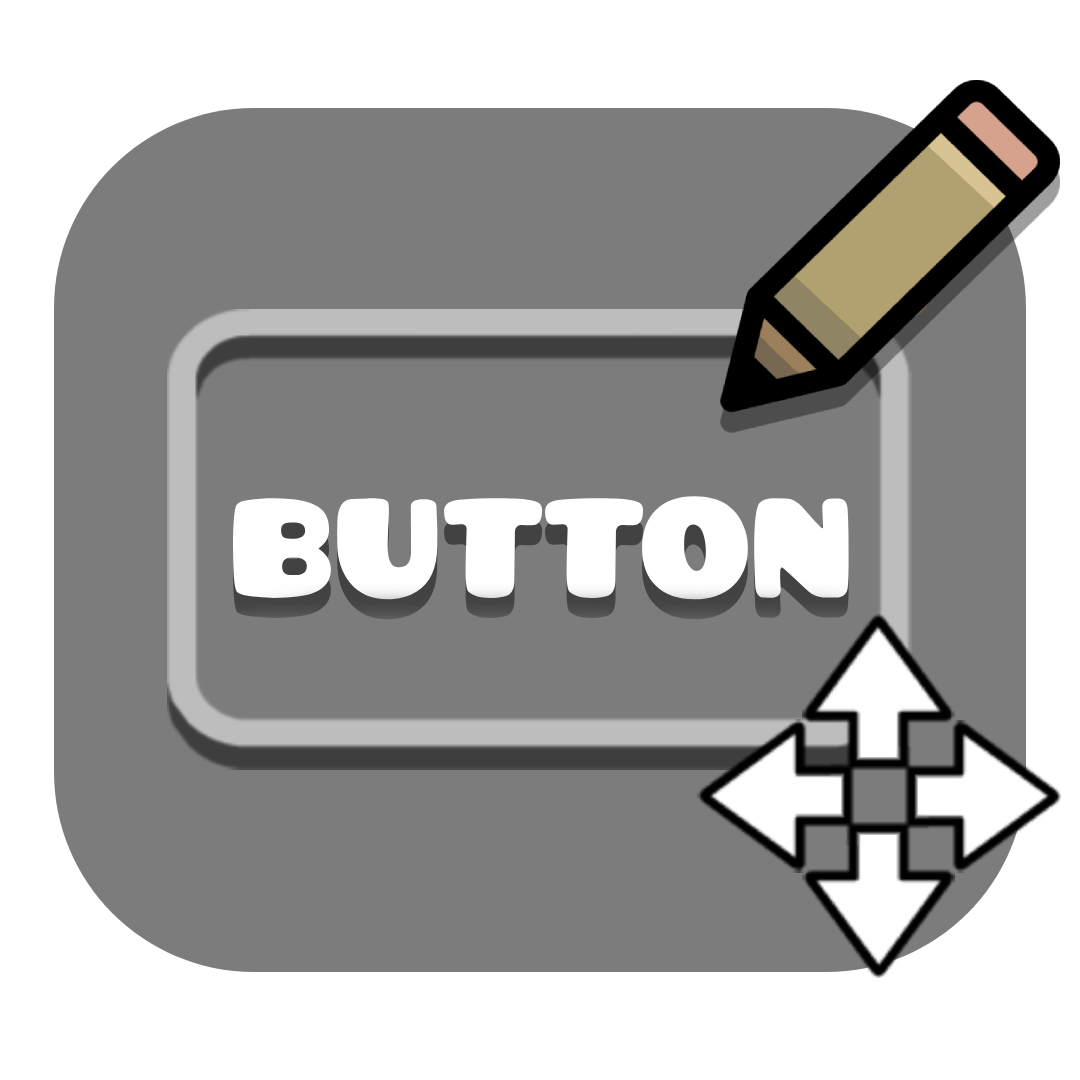
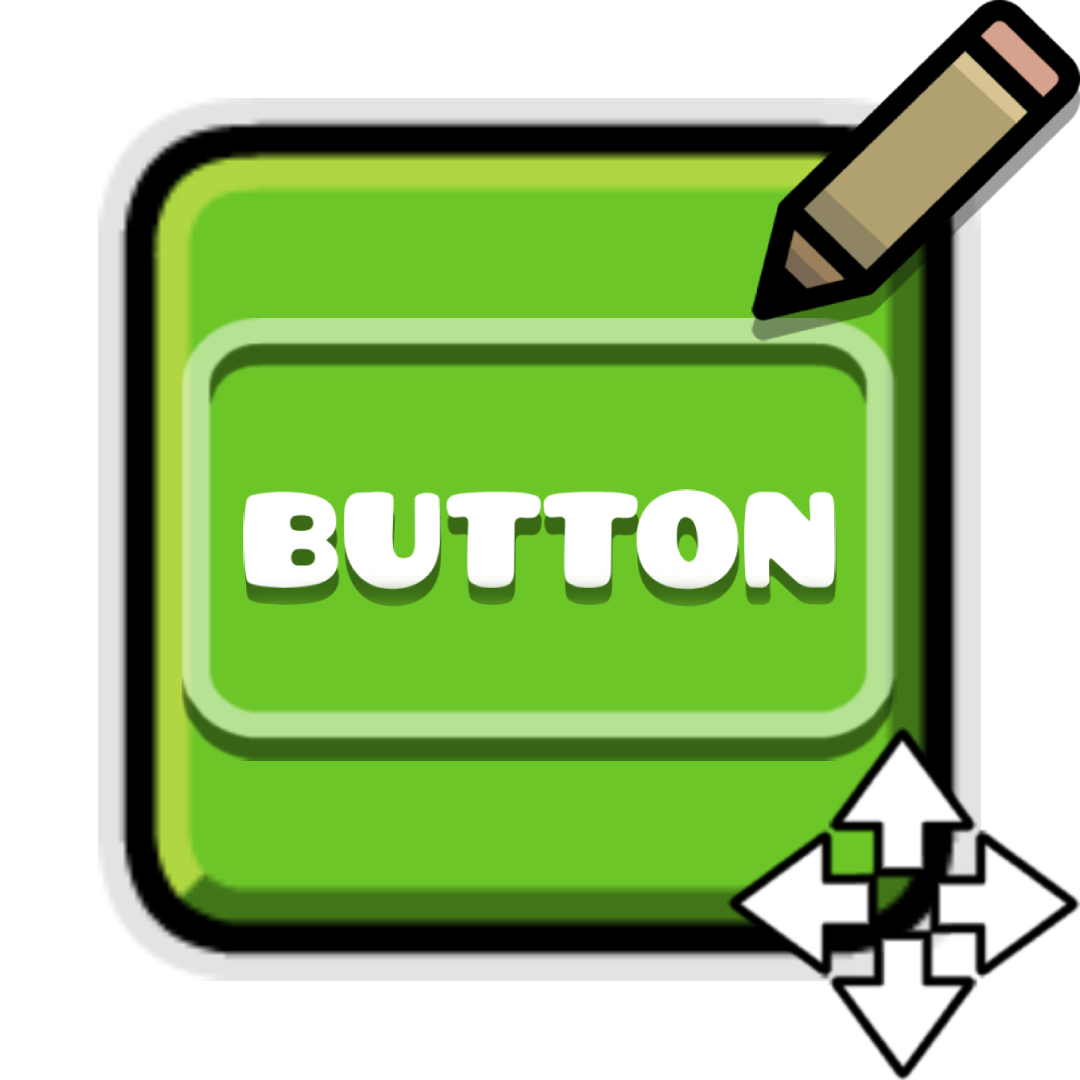
Added a way to toggle between showing mobile buttons + mobile-only playlayer overlay + Finished Todo.md

diff --git a/src/layers/mobile/mobileOverlay.cpp b/src/layers/mobile/mobileOverlay.cpp
@@ -9,7 +9,10 @@
 #include <Geode/Geode.hpp>
 #include <Geode/binding/CCMenuItemSpriteExtra.hpp>
 #include <Geode/modify/LevelEditorLayer.hpp>
+#include <Geode/modify/EditorPauseLayer.hpp>
 #include <Geode/modify/PlayLayer.hpp>
+#include "../../hooks/editorLayer/triggerUI/builderMacros.hpp"
+
 
 using namespace geode::prelude;
 
@@ -19,6 +22,9 @@ class $modify(MobileKeys, PlayLayer) {
         if (!PlayLayer::init(level, useReplay, dontCreateObjects))
             return false;
         KeybindCache::init(this);
+        #ifdef GEODE_IS_DESKTOP
+        return true;
+        #endif
 
         CCSize screenSize = CCDirector::sharedDirector()->getWinSize();
         KeybindCache::mobileKeyNodes.clear();
@@ -58,7 +64,8 @@ class $modify(MobileKeysEditor, LevelEditorLayer) {
 
     void onPlaytest() {
         LevelEditorLayer::onPlaytest();
-
+        if (!Mod::get()->getSettingValue<bool>("mobile-buttons-on-editor"))
+            return;
         CCSize screenSize = CCDirector::sharedDirector()->getWinSize();
 
         KeybindCache::mobileKeyNodes.clear();
@@ -99,4 +106,37 @@ class $modify(MobileKeysEditor, LevelEditorLayer) {
     };
 
 
+};
+class $modify(AddStupidButtons,EditorPauseLayer){
+
+    bool init(LevelEditorLayer* layer) {
+        if (!EditorPauseLayer::init(layer)) return false;
+        
+        auto stupidList = this->getChildByIDRecursive("options-menu");
+        if(auto shit = stupidList->getLayout())
+            static_cast<RowLayout*>(shit)->setAutoScale(false);
+        if (!stupidList)
+            return true;
+        auto on = CCSprite::createWithSpriteFrameName("GJ_checkOn_001.png");
+        auto off = CCSprite::createWithSpriteFrameName("GJ_checkOff_001.png");
+        auto stupidToggler = GoffyBuilder::ToggleOption::create("Show Mobile Buttons",0.35,nullptr);
+        stupidToggler->setCheck(Mod::get()->getSettingValue<bool>("mobile-buttons-on-editor"));
+        stupidToggler->setCB([this](bool check){
+            Mod::get()->setSettingValue<bool>("mobile-buttons-on-editor",check);
+        });
+        
+        
+
+        auto stupidWrapper = CCMenu::create();
+        stupidWrapper->setLayout(RowLayout::create()->setAutoScale(false)->setAutoGrowAxis(1)->setGap(5));
+        stupidWrapper->addChild(stupidToggler);
+        stupidWrapper->updateLayout();
+
+        stupidList->addChild(stupidWrapper);
+        stupidWrapper->updateLayout();
+        stupidList->updateLayout();
+        stupidToggler->setPositionX(stupidToggler->getPositionX() + 1); // robtop stupid padding
+
+        return true;
+    }
 };

diff --git a/src/hooks/editorLayer/triggerUI/builderMacros.cpp b/src/hooks/editorLayer/triggerUI/builderMacros.cpp
@@ -346,18 +346,18 @@ bool ToggleOption::init(
         RowLayout::create()
             ->setCrossAxisLineAlignment(AxisAlignment::Center)
             ->setAutoScale(false)
-            ->setGap(5)
+            ->setGap(5.1)
             ->setAutoGrowAxis(10.f)
     );
 
     auto uncheckSpr =
         CCSprite::createWithSpriteFrameName("GJ_checkOff_001.png");
-    uncheckSpr->setScale(0.75);
+    uncheckSpr->setScale(0.55);
 
     if (!m_sprites.second) { // might be the WORSE way to prevent a leak
         auto checkSpr =
             CCSprite::createWithSpriteFrameName("GJ_checkOn_001.png");
-        checkSpr->setScale(0.75);
+        checkSpr->setScale(0.55);
 
         uncheckSpr->retain();
         checkSpr->retain();
@@ -403,6 +403,8 @@ void ToggleOption::onCheck(CCObject *sender) {
             m_unCheck->m_checkBtn->setSprite(m_sprites.first);
         };
     }
+    if (m_cb)
+        m_cb(m_isChecked);
 
     return;
 }

diff --git a/src/layers/editor/setupGUI.hpp b/src/layers/editor/setupGUI.hpp
@@ -595,7 +595,7 @@ private:
         deleteBtn->setPosition({deleteSize.width / 4, deleteSize.height / 4});
 
         auto mobileEditSpr = CCSprite::createWithSpriteFrameName("editMobileMIP.png"_spr);
-        mobileEditSpr->setScale(0.25);
+        mobileEditSpr->setScale(0.225);
         auto mobileEditBtn = CCMenuItemSpriteExtra::create(mobileEditSpr, this, menu_selector(setupKeyBindsGUI::onMobileEdit));
 
         mobileEditBtn->setAnchorPoint({0.5, 0.5});

diff --git a/src/hooks/editorLayer/triggerUI/builderMacros.hpp b/src/hooks/editorLayer/triggerUI/builderMacros.hpp
@@ -90,11 +90,15 @@ public:
             m_checkBtn->setSprite(m_sprites.first);
         }
     }
+    void setCB(std::function<void(bool)> cb){
+        m_cb = cb;
+    }
 
 protected:
     CCMenuItemSpriteExtra *m_checkBtn;
     std::pair<CCSprite *, CCSprite *> m_sprites;
     ToggleOption *m_onCheck;
+    std::function<void(bool)> m_cb;
 
 protected:
     bool init(std::string labelName, float size, ToggleOption *showOnCheck);

diff --git a/src/layers/gui.hpp b/src/layers/gui.hpp
@@ -128,7 +128,7 @@ private:
         scrollArea->scrollToTop();
 
         auto mobileEditSpr = CCSprite::createWithSpriteFrameName("editMobileMIP.png"_spr);
-        mobileEditSpr->setScale(0.25);
+        mobileEditSpr->setScale(0.225);
         auto mobileEditBtn = CCMenuItemSpriteExtra::create(mobileEditSpr, this, menu_selector(KeyBindsLocalConfigGui::onMobileEdit));
 
         auto windowSize = m_buttonMenu->getContentSize();

diff --git a/src/layers/mobileKeyEdit.hpp b/src/layers/mobileKeyEdit.hpp
@@ -19,8 +19,6 @@ public:
     GoffyBuilder::NumericInput* m_input;
     cue::RadioLogic<int> m_keys;
     CCMenuItemToggler *createButton(int keyCode, float scaleX) {
-        auto keyDefaultSpr = CCLabelBMFont::create(keyToString(keyCode).c_str(), "bigFont.fnt");
-        keyDefaultSpr->setAnchorPoint({0.5f, 0.4f});
         CCSize size = {24, 24};
 
         auto keyOff = ButtonSprite::create(

diff --git a/toDo.md b/toDo.md
@@ -25,7 +25,7 @@ vectors you std::span and just copy the span
 - ~~hook the EditorUI::editObject to temp remove the aux triggers from the m_selectedObjects soo the ObjectCollabApi only process the customtriggers, and right after realocate the objs to the m_selectedObjs~~
 - ~~every time you select a macro or a aux trigger, it selects all (link control or something);~~
 - ~~add a system that shows a popup when versions is outdated~~
-- Add a option like the show hitboxs and ground n shit to show mobile buttons
+- ~~Add a option like the show hitboxs and ground n shit to show mobile buttons~~
 
 
 
@@ -40,7 +40,7 @@ vectors you std::span and just copy the span
 - ~~Removing the last key left crashes the game.~~
 - ~~Saving the level sometimes ruins the keybind mobile layout~~
 - ~~Remake the mobile button to a good version~~
-- only enable the overlay on mobile
+- ~~only enable the overlay on mobile~~
 
 - ~~fix it to be playable on my pohne~~
 
